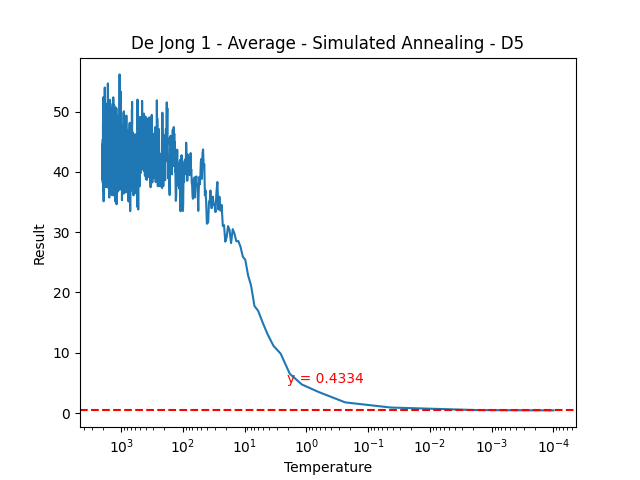
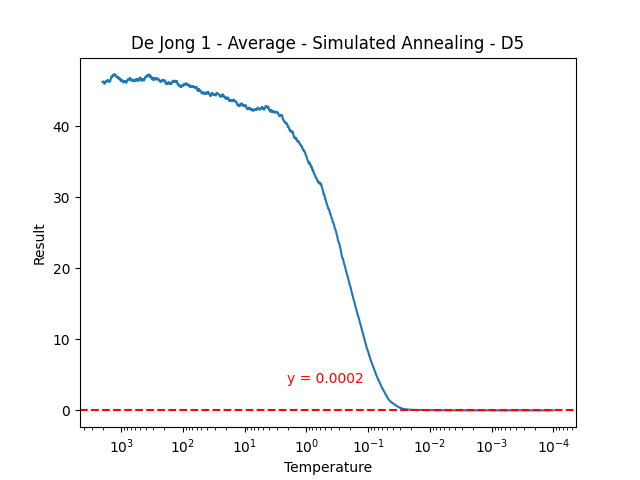
report data

diff --git a/project/methods.py b/project/methods.py
@@ -1,4 +1,5 @@
 import numpy as np
+import math
 import matplotlib.pyplot as plt
 
 KNAPSACK_ITEMS = None
@@ -105,23 +106,36 @@ def get_neighbours(space, v, stdev=0.1):
 
 
 def cooling_linear(temp):
-    return temp / (1 + temp * 0.95)
+    return temp / (1 + temp * 0.995)
 
 
 def cooling_exp(temp):
-    return temp - temp * 0.9935
+    return temp - temp * 0.99163
+
+
+def cooling_knapsack(temp):
+    threshold = 0.975 + (1 - 0.975) * min((FES - 6000) / 12000, 0.65)
+    return temp - temp * threshold
 
 
 def cooling_adaptive(temp):
-    if 500 > temp > 100:
-        return temp / (1 + temp * 0.975)
-    return temp - temp * 0.993
+    return temp / (1 + temp * 0.989)
 
 
-def adaptive_deviation(temp):
+def deviation_adaptive(temp):
     if temp > 500:
-        return 4
-    return 1
+        return 2.5
+    if temp > 1:
+        return 0.85
+    return 0.25
+
+
+def deviation_adaptive2(temp):
+    if temp > 60:
+        return 0.5
+    if temp > 1:
+        return 0.1
+    return 0.005
 
 
 def dejong(v):
@@ -333,9 +347,9 @@ if __name__ == "__main__":
     schwefel_random = dict()
     schwefel_annealing = dict()
 
-    dejong1_stdev = lambda x: 0.45
-    dejong2_stdev = lambda x: 0.05
-    schwefel_stdev = adaptive_deviation
+    dejong1_stdev = lambda x: 0.01
+    dejong2_stdev = deviation_adaptive2  # lambda x: 0.02
+    schwefel_stdev = deviation_adaptive
 
     INIT_TEMP = FES / METROPOLIS_ITER
 
@@ -354,7 +368,7 @@ if __name__ == "__main__":
                 )
                 dejong_annealing[d].append(
                     simulated_annealing(
-                        vector1, METROPOLIS_ITER, INIT_TEMP, dejong, cooling_linear, TARGET_TEMP, dejong1_stdev, (-5, 5)
+                        vector1, METROPOLIS_ITER, INIT_TEMP, dejong, cooling_exp, TARGET_TEMP, dejong1_stdev, (-5, 5)
                     )
                 )
 
@@ -364,27 +378,25 @@ if __name__ == "__main__":
                 )
                 dejong2_annealing[d].append(
                     simulated_annealing(
-                        vector1, METROPOLIS_ITER, INIT_TEMP, dejong2, cooling_linear, TARGET_TEMP, dejong2_stdev,
+                        vector1, METROPOLIS_ITER, INIT_TEMP, dejong2, cooling_exp, TARGET_TEMP, dejong2_stdev,
                         (-5, 5)
                     )
                 )
 
-    TARGET_TEMP = 0.001
+    if "schwefel" in methods_to_run:
+        for d in [5, 10, 12]:
+            schwefel_random[d] = list()
+            schwefel_annealing[d] = list()
 
-    for d in [5, 10]:
-        schwefel_random[d] = list()
-        schwefel_annealing[d] = list()
+            for _ in range(30):
+                vector2 = np.random.uniform(-500, 500, d)
 
-        for _ in range(30):
-            vector2 = np.random.uniform(-500, 500, d)
-
-            if "schwefel" in methods_to_run:
                 schwefel_random[d].append(
                     random_search(vector2, FES, schwefel, (-500, 500))
                 )
                 schwefel_annealing[d].append(
                     simulated_annealing(
-                        vector2, METROPOLIS_ITER, INIT_TEMP, schwefel, cooling_adaptive, TARGET_TEMP, schwefel_stdev,
+                        vector2, METROPOLIS_ITER, INIT_TEMP, schwefel, cooling_exp, TARGET_TEMP, schwefel_stdev,
                         (-500, 500)
                     )
                 )
@@ -397,7 +409,7 @@ if __name__ == "__main__":
             plot_average_rand(dejong_random[d], (0, FES, 10), 100, "De Jong 1 - Average - Random Search - D" + str(d),
                               "Iteration", logarithmic=True)
             plot_average_anneal(dejong_annealing[d], "De Jong 1 - Average - Simulated Annealing - D" + str(d),
-                                cooling_linear, "Temperature", reverse=True, logarithmic_x=True)
+                                cooling_exp, "Temperature", reverse=True, logarithmic_x=True)
 
         if "dejong2" in methods_to_run:
             plot_step_rand(dejong2_random[d], "De Jong 2 - Random Search - D" + str(d), "Iteration", logarithmic=True)
@@ -406,7 +418,7 @@ if __name__ == "__main__":
             plot_average_rand(dejong2_random[d], (0, FES, 10), 100, "De Jong 2 - Average - Random Search - D" + str(d),
                               "Iteration", "Iteration", logarithmic=True)
             plot_average_anneal(dejong2_annealing[d], "De Jong 2 - Average - Simulated Annealing - D" + str(d),
-                                cooling_linear, "Temperature", reverse=True, logarithmic_x=True, logarithmic_y=True)
+                                cooling_exp, "Temperature", reverse=True, logarithmic_x=True, logarithmic_y=True)
 
         if "schwefel" in methods_to_run:
             plot_step_rand(schwefel_random[d], "Schwefel - Random Search - D" + str(d), "Iteration")
@@ -416,17 +428,17 @@ if __name__ == "__main__":
                               "Schwefel - Average - Random Search - D" + str(d),
                               "Iteration")
             plot_average_anneal(schwefel_annealing[d], "Schwefel - Average - Simulated Annealing - D" + str(d),
-                                cooling_adaptive, "Temperature", reverse=True)
+                                cooling_exp, "Temperature", reverse=True)
 
     knapsack_heuristic = dict()
     knapsack_random = dict()
-
-    TARGET_TEMP = 0.00000001
 
     if "knapsack" in methods_to_run:
         for d in [15, 30, 50]:
             knapsack_heuristic[d] = list()
             knapsack_random[d] = list()
+            FES = 400 * d
+            INIT_TEMP = FES / METROPOLIS_ITER
 
             for _ in range(10):
                 generate_items(d)
@@ -434,27 +446,28 @@ if __name__ == "__main__":
                     simulated_annealing(
                         [0] * d,
                         METROPOLIS_ITER,
-                        40 * d,
+                        INIT_TEMP,
                         knapsack,
-                        cooling_linear,
+                        cooling_knapsack,
                         TARGET_TEMP,
-                        _,
+                        dejong1_stdev,
                         (0, 1),
                         False,
                         "disc",
                     )
                 )
                 knapsack_random[d].append(
-                    random_search([0] * d, 400 * d, knapsack, (0, 1), False, "disc")
+                    random_search([0] * d, FES, knapsack, (0, 1), False, "disc")
                 )
 
         for d in [15, 30, 50]:
             INIT_TEMP = 40 * d
+            FES = 400 * d
             plot_step_anneal(knapsack_heuristic[d], "Knapsack - Simulated Annealing - D" + str(d), "Temperature",
-                           reverse=True)
+                             reverse=True)
             plot_step_rand(knapsack_random[d], "Knapsack - Random Search - D" + str(d), "Iteration")
-            plot_average_anneal(knapsack_heuristic[d], "Knapsack - Average - Simulated Annealing - D" + str(d), cooling_linear,
-                                "Temperature", reverse=True)
+            plot_average_anneal(knapsack_heuristic[d], "Knapsack - Average - Simulated Annealing - D" + str(d),
+                                cooling_knapsack, "Temperature", reverse=True)
             plot_average_rand(knapsack_random[d], (0, 400 * d, 10), d, "Knapsack - Average - Random Search - D" + str(d),
                               "Iteration")
 

diff --git a/Readme.md b/Readme.md
@@ -1,26 +1,26 @@
 # ZÁPOČTOVÝ ÚKOL DO MATEMATICKÉ INFORMATIKY
 
-## Osnova
-
-1. [Benchmarking úloha](#benchmarking-úloha)
-2. [Praktická úloha](#praktická-úloha)
-
 ## Benchmarking úloha
-
-Dle zadání jsem se rozhodl u všeho pracovat 
 
 ### Dejong1
 
-Pro dejongovu první funkci jsem zvolil FES 20000. To tedy představovalo 20000 iterací random search a 20 iterací
-metropolisu v simulovaném žihání. Konkretně annealing měl při této funkci parametry teplota = 1000, 
-std odchylka = 0.45 a cílová teplota = 0.0001.
+Jednoduchá funkce, logika za parametry je co nejmenší odchylka pro normální distribuci
+a tedy co nejmenší skoky, jednoduše nechat algoritmus zklouznout do minima. Tomu odpovídá
+i fce chlazení, která chladí o poměrnou část a postupně zpomaluje.
 
-Jako hranice byl zvolen rozsah [-5  5]
+Parametry:
+
+```python
+- FES = 20000
+- temp_target = 0.0001
+- temp_init = 2000
+- metropolis_n = 10
+- std = 0.01
+- cooling = lambda temp: temp - temp * 0.99163
+- bounds = [-5, 5]
+```
 
 #### Dimenze 5
-
-Random search si vedl dobře v malém prostoru a dokázal se v průměru přiblížit k optimu o 1. Naproti tomu annealing
-i v menší dimenzi dokázal v průměru najít téměř 2x lepší řešení.
 
 ![D5RandomDJ1](pictures/benchmarks/dejong1/d5_dej1_rand_g.png) 
 ![D5RandomDJ1](pictures/benchmarks/dejong1/d5_dej1_avg_rand_g.png)
@@ -30,8 +30,6 @@ i v menší dimenzi dokázal v průměru najít téměř 2x lepší řešení.
 
 #### Dimenze 10
 
-Ve větší dimenzi annealing podává v průměru víc než 2x lepší výsledek.
-
 ![D5RandomDJ1](pictures/benchmarks/dejong1/d10_dej1_rand_g.png)
 ![D5RandomDJ1](pictures/benchmarks/dejong1/d10_dej1_avg_rand_g.png)
 
@@ -39,18 +37,34 @@ Ve větší dimenzi annealing podává v průměru víc než 2x lepší výslede
 ![D5RandomDJ1](pictures/benchmarks/dejong1/d10_dej1_avg_anneal_g.png)
 
 
-### Dejong1
+### Dejong2
 
-Pro dejongovu první funkci jsem zvolil FES 20000. To tedy představovalo 20000 iterací random search a 20 iterací
-metropolisu v simulovaném žihání. Konkretně annealing měl při této funkci parametry teplota = 1000, 
-std odchylka = 0.45 a cílová teplota = 0.0001.
+Podobná situace, ale přítomnost "sedel" vyžaduje větší skoky, aby byl annealing
+schopný vyšplhat z lokálního minima. Ty jsou ale v závěru zase zmenšeny, aby se nadrobno mohlo dohledat minimum.
+Z testování vyplynulo, že nejvodnější způsob chlazení je zase poměrový.
 
-Jako hranice byl zvolen rozsah [-5  5]
+Jak u dim 5 tak i 10 je vidět, že pro některé běhy annealingu uvázne alg. u lokálního minima.
+ 
+Parametry:
+
+```python
+- FES = 20000
+- temp_target = 0.0001
+- temp_init = 2000
+- metropolis_n = 10
+- std = devitation_adaptive2
+- cooling = lambda temp: temp - temp * 0.99163
+- bounds = [-5, 5]
+
+def devitation_adaptive2(temp):
+    if temp > 60:
+        return 0.5
+    if temp > 1:
+        return 0.1
+    return 0.005
+```
 
 #### Dimenze 5
-
-Random search si vedl dobře v malém prostoru a dokázal se v průměru přiblížit k optimu o 1. Naproti tomu annealing
-i v menší dimenzi dokázal v průměru najít téměř 2x lepší řešení.
 
 ![D5RandomDJ1](pictures/benchmarks/dejong2/d5_dej2_rand_g.png) 
 ![D5RandomDJ1](pictures/benchmarks/dejong2/d5_dej2_avg_rand_g.png)
@@ -60,10 +74,94 @@ i v menší dimenzi dokázal v průměru najít téměř 2x lepší řešení.
 
 #### Dimenze 10
 
-Ve větší dimenzi annealing podává v průměru víc než 2x lepší výsledek.
-
 ![D5RandomDJ1](pictures/benchmarks/dejong2/d10_dej2_rand_g.png)
 ![D5RandomDJ1](pictures/benchmarks/dejong2/d10_dej2_avg_rand_g.png)
 
 ![D5RandomDJ1](pictures/benchmarks/dejong2/d10_dej2_anneal_g.png)
 ![D5RandomDJ1](pictures/benchmarks/dejong2/d10_dej2_avg_anneal_g.png)
+
+### Schwefel
+
+bbb
+
+Parametry:
+
+```python
+- FES = 20000
+- temp_target = 0.00001
+- temp_init = 1000
+- metropolis_n = 20
+- std = lambda temp: 2.5 * (1.5 - temp / temp_init) + 0.5
+- cooling = lambda temp: temp / (1 + temp * 0.989)
+- bounds = [-500, 500]
+```
+
+Konzistentní performace annealingu byl ten, že to našlo nějaké lokální minimum a tam to taky zůstalo. V průměru to bylo
+cca ideal/2. Random search se v menším prostoru dokázal vydat lepší výsledek.
+
+#### Dimenze 5
+
+![D5RandomDJ1](pictures/benchmarks/schwefel/d5_schwefel_rand_g.png) 
+![D5RandomDJ1](pictures/benchmarks/schwefel/d5_schwefel_avg_rand_g.png)
+
+![D5RandomDJ1](pictures/benchmarks/schwefel/d5_schwefel_anneal_g.png)
+![D5RandomDJ1](pictures/benchmarks/schwefel/d5_schwefel_avg_anneal_g.png)
+
+#### Dimenze 10
+
+V dimenzi 10 podává annealing průměrně lepší výsledek, seč jen o trochu.
+
+![D5RandomDJ1](pictures/benchmarks/schwefel/d10_schwefel_rand_g.png)
+![D5RandomDJ1](pictures/benchmarks/schwefel/d10_schwefel_avg_rand_g.png)
+
+![D5RandomDJ1](pictures/benchmarks/schwefel/d10_schwefel_anneal_g.png)
+![D5RandomDJ1](pictures/benchmarks/schwefel/d10_schwefel_avg_anneal_g.png)
+
+#### Dimenze 12
+
+Kvůli špatným výsledkům pro nižší dimenze jsem se rozhodl otestovat i dimenzi 12, tady už je značně lepší simulované 
+žíhání. I tak se ale konzistentně nepřibližuje globálnímu optimu a končí v optimech lokálních.
+
+![D5RandomDJ1](pictures/benchmarks/schwefel/d12_schwefel_rand_g.png)
+![D5RandomDJ1](pictures/benchmarks/schwefel/d12_schwefel_avg_rand_g.png)
+
+![D5RandomDJ1](pictures/benchmarks/schwefel/d12_schwefel_anneal_g.png)
+![D5RandomDJ1](pictures/benchmarks/schwefel/d12_schwefel_avg_anneal_g.png)
+
+## Knapsack úloha
+
+Dle zadání jsem se rozhodl u všeho pracovat 
+
+Parametry:
+
+### Dimenze 15
+
+Random search si vedl dobře v malém prostoru a dokázal se v průměru přiblížit k optimu o 1. Naproti tomu annealing
+i v menší dimenzi dokázal v průměru najít téměř 2x lepší řešení.
+
+![D5RandomDJ1](pictures/knapsack/d15_knapsack_rand_g.png) 
+![D5RandomDJ1](pictures/knapsack/d15_knapsack_avg_rand_g.png) 
+
+![D5RandomDJ1](pictures/knapsack/d15_knapsack_anneal_g.png) 
+![D5RandomDJ1](pictures/knapsack/d15_knapsack_avg_anneal_g.png)  
+
+### Dimenze 30
+
+Random search si vedl dobře v malém prostoru a dokázal se v průměru přiblížit k optimu o 1. Naproti tomu annealing
+i v menší dimenzi dokázal v průměru najít téměř 2x lepší řešení.
+
+![D5RandomDJ1](pictures/knapsack/d30_knapsack_rand_g.png) 
+![D5RandomDJ1](pictures/knapsack/d30_knapsack_avg_rand_g.png) 
+
+![D5RandomDJ1](pictures/knapsack/d30_knapsack_anneal_g.png) 
+![D5RandomDJ1](pictures/knapsack/d30_knapsack_avg_anneal_g.png)  
+
+### Dimenze 50
+
+Ve větší dimenzi annealing podává v průměru víc než 2x lepší výsledek.
+
+![D5RandomDJ1](pictures/knapsack/d50_knapsack_rand_g.png) 
+![D5RandomDJ1](pictures/knapsack/d50_knapsack_avg_rand_g.png) 
+
+![D5RandomDJ1](pictures/knapsack/d50_knapsack_anneal_g.png) 
+![D5RandomDJ1](pictures/knapsack/d50_knapsack_avg_anneal_g.png)  
